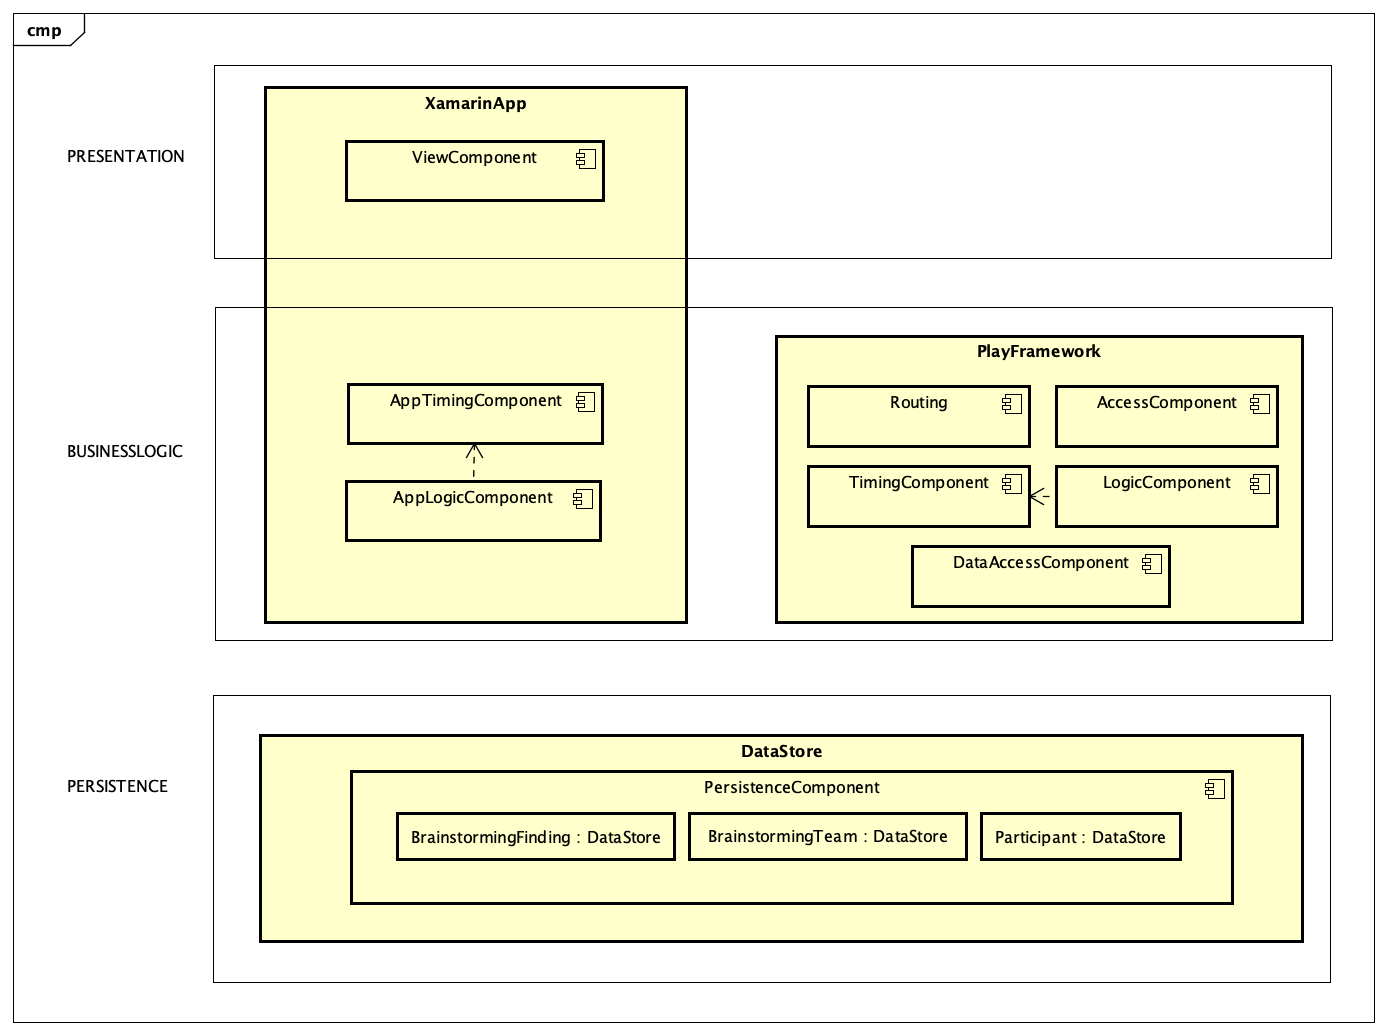
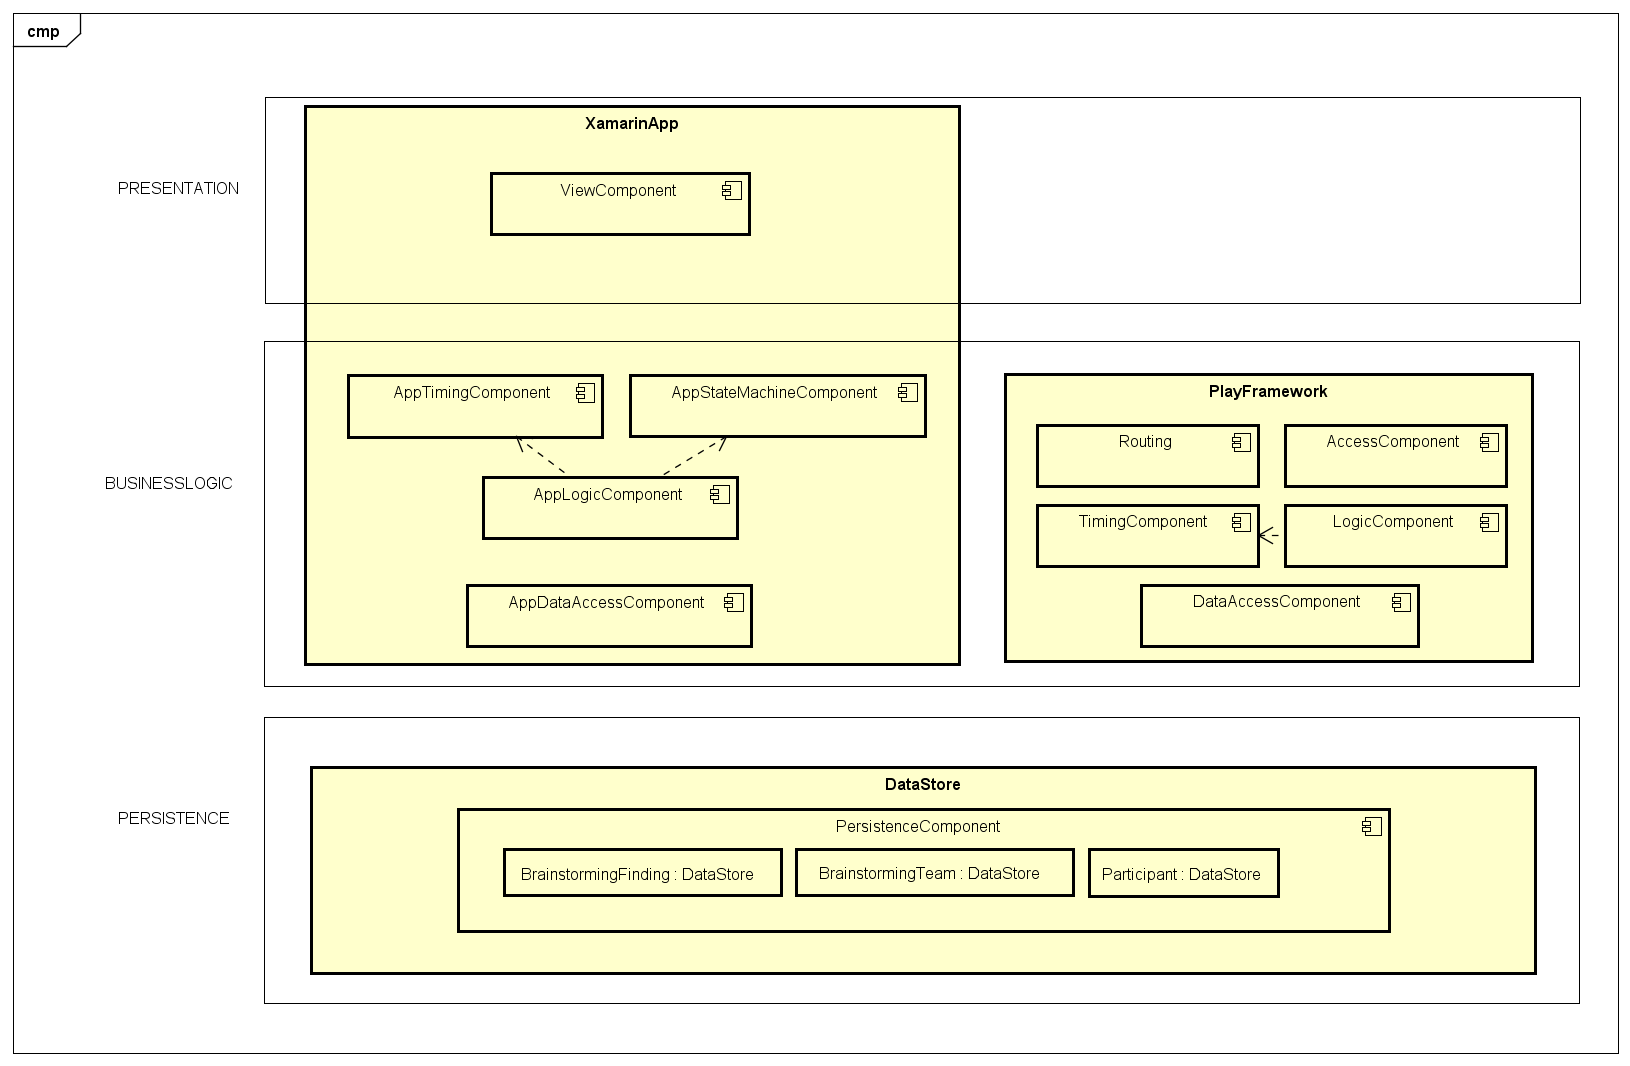
Architecture expanded

diff --git a/tex/techn_bericht/architectural_analyse/architectural_analyse.tex b/tex/techn_bericht/architectural_analyse/architectural_analyse.tex
@@ -2,7 +2,7 @@
 \label{architektur}
 %TODO Architektur anpassen
 
-In diesem Kapitel gehen wir detailliert auf die Architektur und das Deployment unseres Projektes ein. Es ist allerdings zu vermerken, dass dieses Kapitel komplett aus der Studienarbeit \cite{methode635-sa} hervorgegangen ist. Es soll hier dennnoch der Vollständigkeit halber aufgeführt werden.
+In diesem Kapitel gehen wir detailliert auf die Architektur und das Deployment unseres Projektes ein. Es ist allerdings zu vermerken, dass dieses Kapitel grösstenteils aus der Studienarbeit \cite{methode635-sa} hervorgegangen ist. Es soll hier dennnoch der Vollständigkeit halber aufgeführt werden.
 
 \subsubsection{Logische Architektur}
 Wir teilen die Architektur des gesamten Systems in drei Schichten auf. In der Abbildung \ref{fig:architektur-methode635} sind diese als Presentation-, Businesslogic- und Persistence-Schicht zu erkennen.
@@ -18,7 +18,11 @@ Die Präsentationsschicht ist die Schicht über die der Benutzer mit der Xamarin
 
 Die AppLogic-Komponente ist für das korrekte Verarbeiten und Weiterleiten der Eingaben an das PlayFramework verantwortlich.
 
-Die AppTiming-Komponente ist zuständig für das Zeitmanagement während den einzelnen Runden. Diese Komponente überwacht daher die noch verbleibende Zeit.
+Die AppTiming-Komponente ist zuständig für das Zeitmanagement während dem Brainstorming. Diese Komponente überwacht daher die noch verbleibende Zeit.
+
+Die AppStateMachine-Komponente ist für den Runden-Wechsel-Mechanismus zuständig. 
+
+Um die Inhalte des Brainstormings sowie die Benutzerdaten an das Backend zu übermitteln, gibt es die AppDataAccess-Komponente. Im Gegensatz zur DataAccess-Komponente auf dem Backend verarbeitet diese Komponente JSON-Files. 
 
 Auf der anderen Seite haben wir das PlayFramework, welches wiederum Access-Komponenten, Routing-Komponenten, eine Timing-Komponente, Logik-Komponenten und eine DataAccess-Komponente enthält.
 
@@ -30,18 +34,22 @@ Die Persistence-Schicht ist für alle Datenzugriffe zuständig.
 
 Konkret steht uns je ein DataStore für die \textit{BrainstormingFindings}, für die \textit{BrainstormingTeams} und für die \textit{Participants} zur Verfügung.
 
-\paragraph*{Komponenten}
+\paragraph*{Komponenten}~\\
+
 Nachfolgend sind nochmals alle Komponenten aufgelistet und kurz beschrieben. Für eine ausführlichere Beschreibung ist der Text oberhalb zu lesen.
 
-\begin{description}[leftmargin=!,labelwidth=\widthof{\bfseries DataAccessComponent}]
+\begin{description}[leftmargin=!,labelwidth=\widthof{\bfseries AppStateMachineComponent}]
 	
 	\item[ViewComponent] Die View-Komponenten der Xamarin App sind für das korrekte Anzeigen der Informationen verantwortlich. Sie definieren das Aussehen der Applikation.
 	
 	\item[AppTimingComponent] Die Xamarin App hält in der logischen Schicht eine Timing-Komponente, welche dafür sorgt, dass ein 
-	
 	\textit{BrainstormingFinding} nach Ablauf der Zeit abgesendet wird.
 	
-	\item[AppLogicComponent] Die Logik-Komponente der Xamarin App regelt weitere Logik, wie z.B. den Zugriff auf das PlayFramework.
+	\item[AppStateMachineComponent] Die Komponente für das Evaluieren des Zustandes des Brainstormings.
+	
+	\item[AppLogicComponent] Die Logik-Komponente der Xamarin App regelt weitere Logik, wie z.B. das Hinzufügen einer Idee.
+	
+	\item[AppDataAccessComponent] Die Komponente für das Serialisieren und Deserialisieren von JSON Dateien für das und vom Backend.
 	
 	\item[AccessComponent] Die Access-Komponente auf dem PlayFramework regelt den Zugriff mittels JWT-Token. JWT-Tokens werden bei erfolgreichem Login an den Benutzer der App gesendet. 
 	
